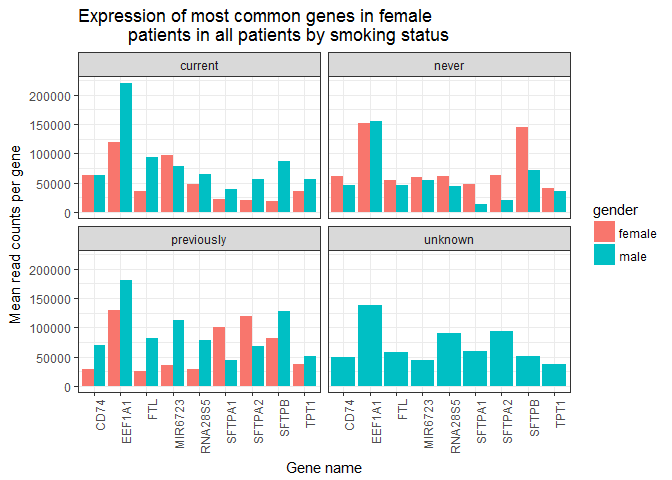
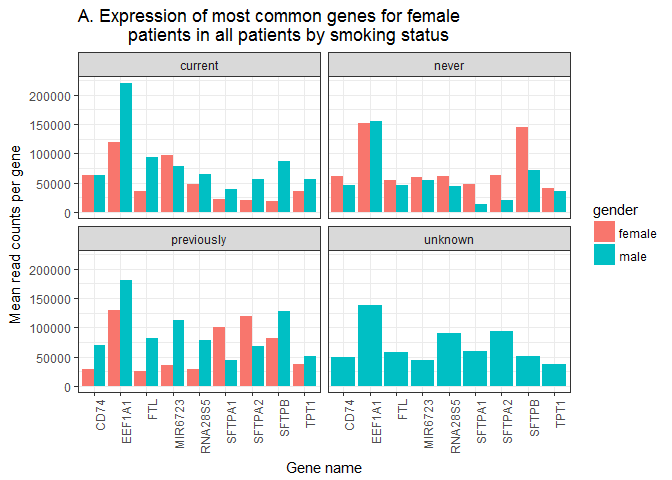
Add discussion section

Changed region(s): [[0.0938, 0.0, 0.6875, 0.0625]]

diff --git a/Analysis_Report_02_RNASeq.md b/Analysis_Report_02_RNASeq.md
@@ -1,4 +1,4 @@
-Analysis Report 2: Your Title Here
+Analysis Report 2: Gender differences in lung cancer
 ================
 Emma Gibson
 November 20, 2017
@@ -6,7 +6,7 @@ November 20, 2017
 Introduction
 ============
 
-Add about 1 page here. Must cite at least 5 peer reviewed articles.
+In today's society, cancer in general and lung cancer specifically is one of the most common causes of death. There have been numerous studies on the prevalance and risk factors of lung cancer, many of which agree that smoking presents a serious increase in risk for developing lung cancer. (<span class="citeproc-not-found" data-reference-id="peto2000smoking">**???**</span>) However, there have been conflicting results as to how biological sex affects risk of lung cancer. Some studies indicate that there there are no significant differences in the overall lung cancer rates between men and women, althought here might be differences in the rates of certain types of lung cancer. (<span class="citeproc-not-found" data-reference-id="bain2004lung">**???**</span>) However, other studies indicate that women are at a higher risk of developing all types of lung cancer. (<span class="citeproc-not-found" data-reference-id="doi:10.1093/jnci/88.3-4.183">**???**</span>) However, both of the cited studies agree with each other and other studies that adenocarcinoma rates are higher in females. (<span class="citeproc-not-found" data-reference-id="devesa2005international">**???**</span>) This type of cancer is characterized by regulation of several distinct genes, including those known to be associated with lung sulfricant proteins. (<span class="citeproc-not-found" data-reference-id="taguchi2011lung">**???**</span>)
 
 Methods
 =======
@@ -14,17 +14,17 @@ Methods
 Sample origin and sequencing
 ----------------------------
 
-Add about half a page here. In this section instead of first person (I/we), use Li et al. (Li *et al.*, 2015) and Seo et al. (Seo *et al.*, 2012), since you'll just be describing what they did, based on the methods in their paper(s). It's important to include this so the reader knows what the study design was for the data you will be presenting.
+The original data that was analyzed in this report was gathered by Seo et al. in their paper studying the transcriptional landscape of lung cancer patients. (Seo *et al.*, 2012) Original tissue samples were taken surgically from cancer patients, and were extracted from both healthy and cancerous tissue. cDNA libraries were sequenced using an Illumina HiSeq machine. The goal of this initial study was to identify potential point mutations and alternative splicing in the genes of cancer patients.
+
+After this initial study, Li et al. re-analyzed the sequence data looking for differences in gene expression between smoking and non-smoking cancer patients. (Li *et al.*, 2015) Using various statistical analysis from R, such as Bionconductor and EdgeR, they compared overall gene transcription levels in smoking and non-smoking cancer patients. Their analysis excluded patients over age 75, and included additional data from 6 nonsmoker patients from another study.
 
 Computational
 -------------
 
-These are the methods that were used to process the sequencing data. Should probably be at least a half of a page. At a very minimum should include citations for biomartr, trimmomatic, and sailfish. Note that these three methods references don't count towards the five references you need to cite in the introduction.
+The data from the initial study was downloaded off of NCBI, then re-proscessed and re-mapped using several programs. First, trimmomatic was used to properly clean and proscess the sequences from the initial RNAseq dataset. (<span class="citeproc-not-found" data-reference-id="doi:10.1093/bioinformatics/btu170">**???**</span>) BioMart was used to download the annotated reference genomes that the RNA sequences would be mapped to. (Durinck *et al.*, 2005) This RNAseq information mapped to these reference genomes usingsailfish. (<span class="citeproc-not-found" data-reference-id="patro_mount_kingsford_2014">**???**</span>) Finally, the cleaned RNAseq data and its associated metadata was analyzed in R using extensions such as ggplott
 
 Results
 =======
-
-In addition to a minimum of 4-5 figures/tables (and associated captions), you should include sufficient text in this section to describe what your findings were. Remember that in the results section you just describe what you found, but you don't interpret it - that happens in the discussion.
 
 | gender | genename |  mean\_count|
 |:-------|:---------|------------:|
@@ -44,15 +44,15 @@ In addition to a minimum of 4-5 figures/tables (and associated captions), you sh
 | female | RNA28S5  |     58079.55|
 | male   | FTH1     |     52390.78|
 
-**Table 1**: The most highly expressed genes in both genders included *SFTPB* and *EEF1A1*.
+**Table 1.** The most highly expressed genes in both genders included *SFTPB* and *EEF1A1*.
 
 ![](Analysis_Report_02_RNASeq_files/figure-markdown_github-ascii_identifiers/make-barplot-of-highly-expressed-genes-1.png)
 
-This figure shows the fifteen most common genes in male and female patients.
+**Figure 1.** Fifteen most common genes in male and female patients.
 
 ![](Analysis_Report_02_RNASeq_files/figure-markdown_github-ascii_identifiers/make-boxplot-of-highly-expressed-genes-1.png)
 
-**Figure x**: Here we show another example figure caption.
+**Figure 2.** Expression counts in top 15 genes, by gender and smoking status
 
 ``` r
 # first, this code finds various factors for each patient
@@ -80,6 +80,8 @@ with(gender_and_smoking_status, table(gender, smoking_status, cancer_stage)) %>%
 
 ![](Analysis_Report_02_RNASeq_files/figure-markdown_github-ascii_identifiers/gender-and-smoking-1.png)
 
+**Figure 3.** Smoking statues of patients with each cancer stage by gender
+
 ``` r
 # this code finds the top 9 genes in female patients only
 # I chose 9 instead of 15 because the original top 15 had
@@ -106,6 +108,8 @@ kable(top_9_f)
 | FTL      |     51200.27|
 | SFTPA1   |     50997.97|
 | TPT1     |     40372.54|
+
+**Table 2.** Top 9 genes in female patients
 
 ``` r
 # this puts the top 9 female genes into a facet-friendly format
@@ -135,6 +139,8 @@ final_table %>%
 
 ![](Analysis_Report_02_RNASeq_files/figure-markdown_github-ascii_identifiers/female-gene-graph-1.png)
 
+**Figure 4.** Expression counts in top 9 most common female genes, by gender and smoking status
+
 ``` r
 # this gets the appropriate metadata to make a figure faceted by smoking status
 top_f_in_all_status <- final_table %>%
@@ -148,7 +154,7 @@ top_f_in_all_status %>%
              fill = gender)) +
   facet_wrap(~smoking_status) +
   geom_col(position = "dodge") +
-  ggtitle("Expression of most common genes in female
+  ggtitle("A. Expression of most common genes for female
           patients in all patients by smoking status") +
   xlab("Gene name") +
   ylab("Mean read counts per gene") +
@@ -173,7 +179,7 @@ top_f_in_all_stage %>%
              fill = gender)) +
   facet_wrap(~cancer_stage) +
   geom_col(position = "dodge") +
-  ggtitle("Expression of most common genes in female
+  ggtitle("B. Expression of most common genes for female
           patients in all patients by cancer stage") +
   xlab("Gene name") +
   ylab("Mean read counts per gene") +
@@ -185,17 +191,19 @@ top_f_in_all_stage %>%
 
 ![](Analysis_Report_02_RNASeq_files/figure-markdown_github-ascii_identifiers/smoking-in-female-genes-2.png)
 
+**Figure 5.** Abundance of top 9 female genes by gender, faceted by A. smoking status and B. cancer stage
+
 Discussion
 ==========
 
--SFTPB is more common in never-smoking females, and in males otherwise - this comes mostly from 1B stage patients - this stage is also common in previously-smoking males, who show much higher SFTPB - this indicates it's probably due to cancer stage rather than smoking status
+Initially, I noticed that gene expression was relatively even in both genders for the most common genes, witht he exception of EEF1A1 and SFTB (Figure 1). After breaking further breaking down this data by smoking status, I found a similar correlation between gene expression between the genders, but I noticed that there seemed to be less data on female smokers (Figure 2). When I looked into this further, I found that most of the female patients had never smoked and were in early stages of cancer. (Figure 3) Given this information, I decided to investigate whether the most common genes in female patients might be different than the most common genes in all patients, and found that they were (Table 2). Most of the genes tht were most commom in female patients were the same as the most common in general patients, and they showed similar expression patterns as well (Figure 4) Lastly, I decided to examine the expression of these genes compared to smoking status and cancer stage, and found that the genes that were more common in females were also most common in nonsmokers with early cancer stages, which makes sense given the other analyses (Figure 5).
 
--it lookslike females have different smoking status/stage -see if there are genes more common to females than males -compare to males of same cancer stage -are these genes due to female smoking status? Or are they differently expressed in males
-
-Add around 1-2 pages interpreting your results and considering future directions one might take in analyzing these data.
+Of the few genes that are consistently more common in female patients than males are genes like SFTBP, which seems to be especially common in cancer stage 1B (Figure 5B). Although it is quite common in both genders at this stage, SFTBP is the most common gene in females at this stage, but not in males. Although this could be due to the gene simply being expressed in early stages of cancer, the difference could potentially hint that a different type of cancer common to females at this stage. Studies have shown that the SFTBP gene is associated with adenocarcinoma, the type of lung cancer that is especially common in females. (<span class="citeproc-not-found" data-reference-id="taguchi2011lung">**???**</span>) Given that Li et al. showed that there are differences in gene expression among lung cancer patients who do and do not smoke, it is possible that adenocarcinomaadenocarcinoma might be more common in people who do not smoke, rather than females. (Li *et al.*, 2015) However, this gene is still more common in females who have never smoked than males who have never smoked, indicating that SFTBP's abundance in female patients is more likely due to gender than smoking status.
 
 Sources Cited
 =============
+
+Durinck,S. *et al.* (2005) BioMart and bioconductor: A powerful link between biological databases and microarray data analysis. *Bioinformatics*, **21**, 3439–3440.
 
 Li,Y. *et al.* (2015) RNA-seq analysis of lung adenocarcinomas reveals different gene expression profiles between smoking and nonsmoking patients. *Tumor Biology*, **36**, 8993–9003.
 
